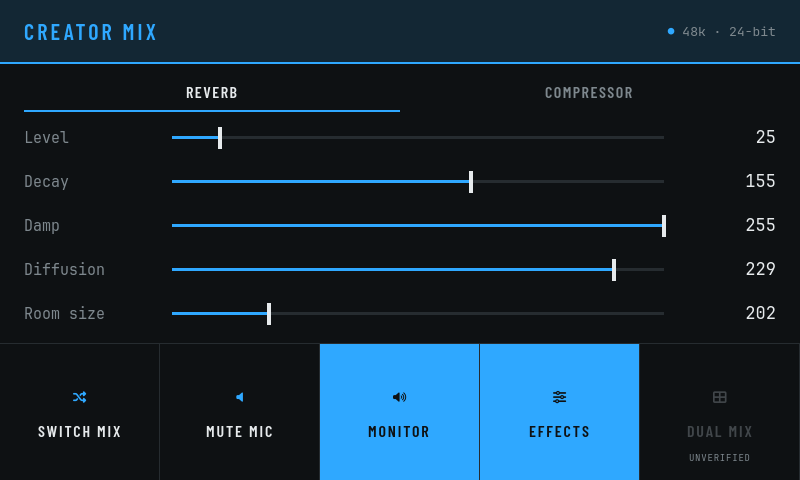
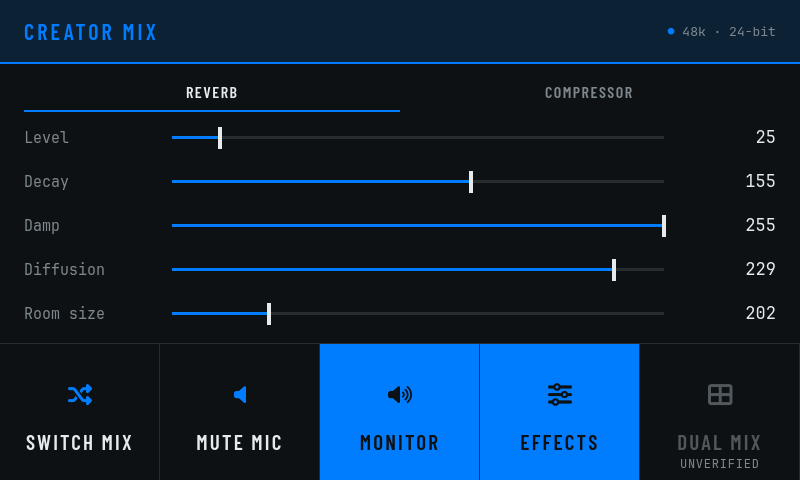
gui: make the deck's tiles readable
The tiles are what the deck's own panel is operated with -- 800x480 across a
few inches, read at arm's length across a desk rather than at a monitor's
distance -- and the glyph and legend together used barely a third of the
136 pixels each tile has. The space was there and unspent.

The glyph leads, because the icon is what is recognised at a glance and the
word underneath is what confirms it. The label is also held inside its tile
now: it had neither a width nor an elide, so a longer one would have run out
over its neighbours rather than being cut short.

A reserved tile has to stay legible while reading as inert. One nobody can
read is not obviously one that is off.

Screenshots regenerated from the same QML the application renders.

diff --git a/src/gui/ActionTile.qml b/src/gui/ActionTile.qml
@@ -42,27 +42,42 @@ Item {
         color: Theme.rule
     }
 
+    // Sized for the deck's own panel, which is what these are for: 800x480 across
+    // a few inches, read at arm's length across a desk rather than at a monitor's
+    // distance. The tile is 136 tall and the glyph and legend together used barely
+    // a third of it, which spent the space on nothing and made both hard to pick
+    // out. The glyph leads, because the icon is what is recognised at a glance and
+    // the word underneath is what confirms it.
     Column {
         anchors.centerIn: parent
         spacing: Theme.stepSmall
-        opacity: tile.pending ? 0.45 : 1.0
+
+        // Reserved rather than absent, so it has to stay legible while reading as
+        // inert -- a tile nobody can read is not obviously a tile that is off.
+        opacity: tile.pending ? 0.6 : 1.0
 
         Text {
             anchors.horizontalCenter: parent.horizontalCenter
             text: tile.glyph
             color: tile.pending ? Theme.inkDim : tile.active ? Theme.ground : tile.accent
             font.family: Theme.data
-            font.pixelSize: 22
+            font.pixelSize: 40
             Behavior on color { ColorAnimation { duration: Theme.mixTransition } }
         }
 
         Text {
+            // Held inside the tile: the labels are set in a condensed face and fit
+            // today, but a longer one would otherwise run out over its neighbours
+            // rather than be cut short.
+            width: tile.width - Theme.step * 2
             anchors.horizontalCenter: parent.horizontalCenter
+            horizontalAlignment: Text.AlignHCenter
+            elide: Text.ElideRight
             text: tile.label
             color: tile.pending ? Theme.inkDim : tile.active ? Theme.ground : Theme.ink
             font.family: Theme.legend
-            font.pixelSize: 16
-            font.letterSpacing: 1.9
+            font.pixelSize: 21
+            font.letterSpacing: 2.2
             font.capitalization: Font.AllUppercase
         }
     }
@@ -71,11 +86,11 @@ Item {
         visible: tile.pending
         anchors.horizontalCenter: parent.horizontalCenter
         anchors.bottom: parent.bottom
-        anchors.bottomMargin: Theme.step
+        anchors.bottomMargin: Theme.stepSmall
         text: tile.note
         color: Theme.inkDim
         font.family: Theme.data
-        font.pixelSize: 9
+        font.pixelSize: 12
         font.letterSpacing: 0.8
         font.capitalization: Font.AllUppercase
     }
